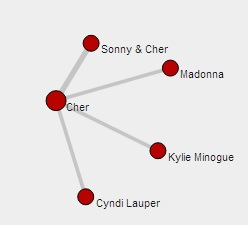
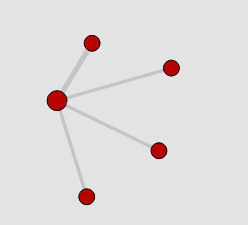
slowly refining the site.

diff --git a/Sunburst/js/main.js b/Sunburst/js/main.js
@@ -137,12 +137,12 @@ pastEventsArray.push({name:Object.keys(test)[j],children:yearEvents});
 var pastEventsJson = {"children":pastEventsArray};
 
 
-var width = 840,
+var width = 900,
     height = width,
     radius = width / 2,
     x = d3.scale.linear().range([0, 2 * Math.PI]),
-    y = d3.scale.pow().exponent(2.8).domain([0, 1]).range([0, radius]),
-    padding = 4,
+    y = d3.scale.pow().exponent(2).domain([0, 1]).range([0, radius]),
+    padding = 3,
     duration = 1000;
 
 var div = d3.select("#centercol");
@@ -157,7 +157,6 @@ var vis = div.append("svg")
 
 div.append("p")
     .attr("id", "intro")
-    .text("Click to zoom!");
 
 var partition = d3.layout.partition()
     .sort(null)
@@ -202,23 +201,24 @@ var act = textEnter.append("tspan")
     .attr("id", "EvEvent")
     .attr("title", d.name)
       .attr("x", 0)
-	  .attr("dy", "-.5em")
+	  .attr("dy", function(e) {return (e.depth < 3) ? ".2em" : "-.5em";})
       .attr("fill", function(d){return (d.depth < 3) ? "black" : "#A64100"})
-      .text(function(d) { return d.depth ? nameTooLong(d.depth, d.name.split("/")[0], 40) : ""; });
-      
+      .text(function(d) { return d.depth ? nameTooLong(d.depth, d.name.split("/")[0], 38) : ""; });
+  
 var venue = textEnter.append("tspan")
     .attr("id", "EvVenue")
+    .attr("value", d.name)
       .attr("x", 0)
       .attr("dy", ".9em")
       .attr("fill", "#0F4DA8")
-      .text(function(d) { return d.depth ? nameTooLong(d.depth, d.name.split("/")[1], 40) || "" : ""; });
+      .text(function(d) { return d.depth ? nameTooLong(d.depth, d.name.split("/")[1], 38) || "" : ""; });
 
 var loc =  textEnter.append("tspan")
     .attr("id", "EvLocation")
     .attr("x", 0)
       .attr("dy", ".9em")
       .attr("fill", "#34D800")
-      .text(function(d) { return d.depth ? nameTooLong(d.depth, d.name.split("/")[2], 40 ) || "" : ""; });
+      .text(function(d) { return d.depth ? nameTooLong(d.depth, d.name.split("/")[2], 38) || "" : ""; });
 
   function click(d) {
     path.transition()
@@ -248,8 +248,7 @@ var loc =  textEnter.append("tspan")
         .each("end", function(e) {
           d3.select(this).style("visibility", isParentOf(d, e) ? null : "hidden");
         });
-  }
-;
+    }
 
 function nameTooLong(depth, inputStr, strLen){
     if(depth >= 3){

diff --git a/Sunburst/index.html b/Sunburst/index.html
@@ -45,12 +45,12 @@
             </div>
             <div class="leftfootercol" id="leftfootercol">
                 <a href="../Sunburst/index.html">
-                    <img src="wheel.png" alt="Sunburst">
+                    <img src="../ArtistGraph/wheel.png" alt="Sunburst">
                 </a>
             </div>
             <div class="rightfootercol" id="rightfootercol">
                 <a href="../Sunburst/index.html">
-                    <img src="wheel.png" alt="Sunburst">
+                    <img src="../ArtistGraph/wheel.png" alt="Sunburst">
                 </a>
             </div>
 			
@@ -63,7 +63,7 @@
 			<div class="centerfootercol" id="centerfootercol1">Artist Graph
                 <br>
                 <a href="../ArtistGraph/index.html">
-                    <img src="../ArtistGraph/artistGraph.jpg">
+                    <img src="../ArtistGraph/artistGraph.jpg" alt="ArtistGraph">
                 </a>
             </div>
             <!--<div class="centerfootercol" id="centerfootercol">centercol

diff --git a/ArtistGraph/js/main.js b/ArtistGraph/js/main.js
@@ -366,6 +366,7 @@ $(window).load(function() {
     function filterPopularity(artistData){
         //take out the top 
         for (var i=0; i < filterPopFlag; i++){
+            alert("Dropping " + artistData[mostPopularArtist(artistData)].name)
             artistData[mostPopularArtist(artistData)].include = 0;
          } 
     }

diff --git a/Sunburst/wheel.css b/Sunburst/wheel.css
@@ -1,18 +1,18 @@
 path {
   stroke: #000;
-  stroke-width: 1.5;
+  stroke-width: 1;
   cursor: pointer;
 }
 
 text {
-  font: 11px sans-serif;
+  font: 10px sans-serif;
   cursor: pointer;
 }
 
 
 h1 {
   text-align: center;
-  margin: .5em 0;
+  /*margin: 3.5em 0;*/
 }
 
 p#intro {
